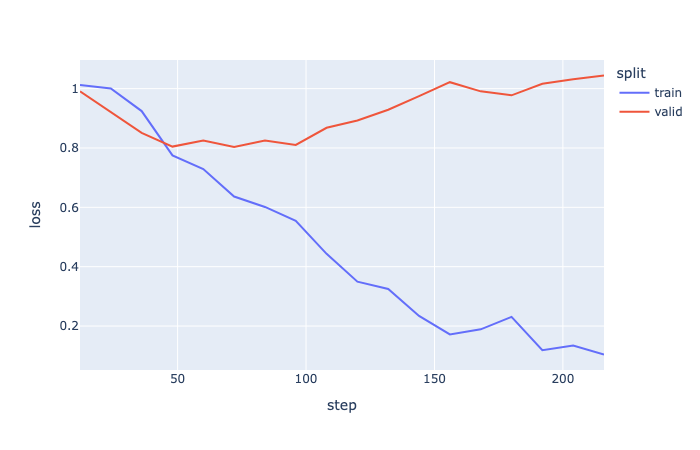
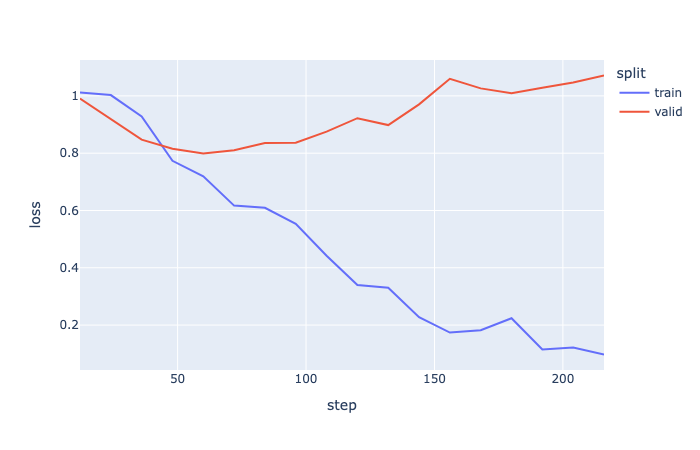
Built site for gh-pages

diff --git a/index.html b/index.html
@@ -245,7 +245,7 @@ window.Quarto = {
     <div class="quarto-title-meta-heading">Authors</div>
     <div class="quarto-title-meta-contents">
              <p>A. Morin <a href="mailto:axel.morin@polytechnique.edu" class="quarto-title-author-email"><i class="bi bi-envelope"></i></a> </p>
-             <p>Alban Derepas <a href="mailto:alban.derepas@ensae.fr" class="quarto-title-author-email"><i class="bi bi-envelope"></i></a> </p>
+             <p>Alban Derepas <a href="mailto:alban.derepas@polytechnique.edu" class="quarto-title-author-email"><i class="bi bi-envelope"></i></a> </p>
           </div>
   </div>
     
@@ -260,10 +260,10 @@ window.Quarto = {
 
 <section id="introduction" class="level1">
 <h1>Introduction</h1>
-<p>Social scientists working with large corpora of documents (tweets, abstracts, newspaper articles, videos…) often need to annotate each item with one or more labels. Common strategies include hiring interns, outsourcing to a company such as MTurk, or automating the task. Since the development of LLMs, it has become common practice to use them as annotators in social science contexts (Gilardi et al., 2023; Bonikowski et al, 2022). One such study annotated 4.5 million tweets addressed to French members of parliament with the labels “attack”, “critique” or “support” to describe the conditions of hate speech towards them on Twitter. In Machine Learning jargon, this is a “classification task”.</p>
-<p>This tutorial is part of a series on using LLMs as annotators. A companion <a href="https://www.css.cnrs.fr/classification-with-generative-llms-and-api-calls/">tutorial</a> covers the generative AI (genAI) approach: writing a prompt and parsing the label out of the model’s response. Here, we cover the encoder approach instead (an encoder is an LLM that does not generate text<a href="#fn1" class="footnote-ref" id="fnref1" role="doc-noteref"><sup>1</sup></a>), fine-tuned on an annotated sample the way a human expert would learn the task<a href="#fn2" class="footnote-ref" id="fnref2" role="doc-noteref"><sup>2</sup></a>. This gives you more control over the model and its performance, at the cost of more NLP knowledge and coding skill.</p>
+<p>Social scientists working with large corpora of documents (tweets, abstracts, newspaper articles, videos…) often need to annotate each item with one or more labels to conduct analysis, such as the evolution of topics or modelisation. Common strategies include hiring interns, outsourcing to a company such as MTurk, or automating the task with various strategies. Since the development of LLMs, it has become common practice to use them as annotators in social science contexts (Gilardi et al., 2023; Bonikowski et al, 2022). For instance, such study annotated 4.5 million tweets addressed to French members of parliament with the labels “attack”, “critique” or “support” to describe the conditions of hate speech towards them on Twitter. In Machine Learning jargon, this is a “classification task”.</p>
+<p>This tutorial is part of a series on using LLMs as annotators. A companion <a href="https://www.css.cnrs.fr/classification-with-generative-llms-and-api-calls/">tutorial</a> covers the generative AI (genAI) approach: writing a prompt and parsing the label out of the model’s response. Here, we cover another approach using specific models called encoders (an LLM that does not generate text<a href="#fn1" class="footnote-ref" id="fnref1" role="doc-noteref"><sup>1</sup></a>), fine-tuned on an annotated sample the way a human expert would learn the task<a href="#fn2" class="footnote-ref" id="fnref2" role="doc-noteref"><sup>2</sup></a>. This gives you more control over the model and its performance, at the cost of (a bit) more NLP knowledge and coding skill.</p>
 <p><strong>Why not just use ChatGPT?</strong> Generative models (GPT, Llama, Claude) are prompted: you describe your categories and hope the model interprets them as you would, every time. An encoder (BERT and its relatives) produces no text but an <strong>embedding</strong>, a numerical representation of a text’s meaning<a href="#fn3" class="footnote-ref" id="fnref3" role="doc-noteref"><sup>3</sup></a>, and is <strong>fine-tuned</strong> on texts you label yourself. You thus control the whole pipeline: the model can only assign the categories you defined, learned from your annotations and nothing else. A generative model brings everything it learned elsewhere into each decision, and may read into a text things that are not in it. Its errors are then not random but biased: Ashwin et al.&nbsp;(2025) found that a generative LLM’s coding errors on interviews with Rohingya refugees were correlated with respondents’ characteristics, whereas a model fine-tuned on human-coded transcripts showed less bias.</p>
-<p>Encoders also keep your data <strong>confidential</strong>: they are light enough to run on your own machine or a trusted server<a href="#fn4" class="footnote-ref" id="fnref4" role="doc-noteref"><sup>4</sup></a>, so sensitive corpora never go through an external API. And they keep your results <strong>reproducible</strong>: closed generative models can change after an update, while you own the encoder and its fine-tuning data. Finally, they are cheaper to run on large corpora, and a few hundred annotated texts are often enough (Laurer et al., 2024; Bucher &amp; Martini, 2024). The price is the annotation effort, more code, and a model that performs a single task.</p>
+<p>Using small models helps to keep your data <strong>confidential</strong>: encoders are light enough to run on your own machine or a trusted server<a href="#fn4" class="footnote-ref" id="fnref4" role="doc-noteref"><sup>4</sup></a>, so sensitive corpora never go through an external API. And they keep your results <strong>reproducible</strong>: closed generative models can change after an update, while you own the encoder and its fine-tuning data. Finally, they are cheaper to run on large corpora, and a few hundred annotated texts are often enough (Laurer et al., 2024; Bucher &amp; Martini, 2024). The price is the annotation effort, more code, and a model that performs a single task. But even this cost has its avantage : you learn a lot during the annotation process.</p>
 <p>This tutorial fine-tunes an <strong>encoder model</strong>: we load and format a dataset, load the model and set its hyperparameters, launch fine-tuning, assess performance, and tune hyperparameters to improve it. We close with advice on incorporating the results into a social science project, including hardware tips along the way.</p>
 <section id="sec-objectives" class="level2">
 <h2 class="anchored" data-anchor-id="sec-objectives">Objectives and materials</h2>
@@ -277,7 +277,7 @@ window.Quarto = {
 </ul>
 <p>It will <strong>not</strong> cover:</p>
 <ul>
-<li>Python syntax: we assume you already know the language. See <a href="https://pythonds.linogaliana.fr/">Lino’s course</a> if you don’t.</li>
+<li>Python syntax: we assume you already know the language. See <a href="https://pythonds.linogaliana.fr/">Lino Galiana’s course</a> if you don’t.</li>
 <li>Supervised learning in depth: we assume you have an annotated dataset to fine-tune on, and only recall the essentials of the framework (training a classifier, splitting annotations into train, valid and test sets) and its standard metrics (precision, recall, accuracy, F1 score) in the refresher below. See the <a href="https://scikit-learn.org/stable/supervised_learning.html">scikit-learn user guide</a> to go further, and Pustejovsky &amp; Stubbs (2012) or Krippendorff (2018) for annotation.</li>
 <li>The fundamentals of NLP and linguistics, beyond what’s necessary here. See <a href="https://web.stanford.edu/~jurafsky/slp3/">Jurafsky</a>.</li>
 <li>How to turn your research question into an annotation protocol: we assume you can design and motivate that yourself.</li>
@@ -337,10 +337,11 @@ Figure&nbsp;1: Similarity between embeddings: “apple” and “pear” are clo
 </figcaption>
 </figure>
 </div>
-<p>Models don’t read words but <strong>tokens</strong>: words or pieces of words from the model’s vocabulary, into which texts are split before use. Every encoder has a <strong>context window</strong>, the maximum number of tokens it processes at once. Anything beyond is ignored, so long texts may have to be split into sentences or paragraphs (older models read 128 to 512 tokens).</p>
+<p>Models don’t read words but <strong>tokens</strong>: words or pieces of words from the model’s vocabulary, into which texts are split before use. Every encoder has a <strong>context window</strong>, the maximum number of tokens it processes at once. Anything beyond is ignored, so long texts may have to be split into sentences or paragraphs (older models read 128 to 512 tokens). It is important for encoders since their context windows are smaller than generative models.</p>
 <p>A <strong>pretrained</strong> model has already learned how a language works, by reading very large amounts of general text such as Wikipedia, books or web pages. This step requires computing power and data out of reach of most research teams, so it is done by companies and research labs, who often share the resulting models publicly; this tutorial downloads its model from Hugging Face, the main platform for doing so. <strong>Fine-tuning</strong> adjusts its parameters slightly with your annotations, to turn it into a classifier for your own labels. It is quick: a few minutes, at most a few dozen on limited hardware.</p>
+<p>An encoder only produces embeddings, so going from an embedding to a category takes one more step: we add a <strong>classification layer</strong> on top of the encoder. This single linear layer takes a text’s embedding as input and produces one score per label, and the label with the highest score is the prediction. It starts with random parameters and learns your categories during fine-tuning, while the encoder’s own parameters are adjusted slightly.</p>
 <p>Fine-tuning proceeds by small successive corrections: the model reads a <strong>batch</strong> of annotated texts, compares its predictions with your annotations, and adjusts its parameters slightly to reduce the gap between the two, called the <strong>loss</strong>. It then moves to the next batch, and repeats until it has gone through the whole train set: one <strong>epoch</strong>. The settings that control this loop (how many texts per batch, how large each correction is, how many epochs) are called hyperparameters; we introduce them when diagnosing training problems (<a href="#sec-hyperparameters-tuning" class="quarto-xref">Section&nbsp;4.1</a>).</p>
-<p>To check that the model learned your categories rather than memorised your examples, annotations are split into three sets: the model learns from the <strong>train</strong> set, you compare settings on the <strong>valid</strong> set, and the <strong>test</strong> set is kept aside for one final, unbiased score.</p>
+<p>To check that the model learned your categories rather than memorised your examples, annotations are split into three sets: the <strong>train</strong> set is used to optimise the weights by reducing the loss, the <strong>valid</strong> set is used during fine-tuning to measure the loss on texts that never update the weights, which shows whether the model is really learning and lets you compare settings, and the <strong>test</strong> set is kept aside for one final, unbiased score.</p>
 <div class="callout callout-style-default callout-note callout-titled" title="Learn more about neural networks, Transformers and encoders">
 <div class="callout-header d-flex align-content-center collapsed" data-bs-toggle="collapse" data-bs-target=".callout-2-contents" aria-controls="callout-2" aria-expanded="false" aria-label="Toggle callout">
 <div class="callout-icon-container">
@@ -366,7 +367,7 @@ Figure&nbsp;1: Similarity between embeddings: “apple” and “pear” are clo
 </div>
 <section id="install-environment" class="level2">
 <h2 class="anchored" data-anchor-id="install-environment">Install environment</h2>
-<p>This tutorial uses Python 3.12:</p>
+<p>This tutorial uses Python 3.14:</p>
 <div class="code-copy-outer-scaffold"><div class="sourceCode" id="cb1"><pre class="sourceCode bash code-with-copy"><code class="sourceCode bash"><span id="cb1-1"><a href="#cb1-1" aria-hidden="true" tabindex="-1"></a><span class="ex">pip</span> install <span class="at">-qU</span> pandas <span class="st">"transformers==4.52.4"</span> datasets ipykernel matplotlib torch <span class="st">"accelerate&gt;=0.26.0"</span> scikit-learn plotly <span class="st">"nbformat&gt;=4.2.0"</span></span></code></pre></div><button title="Copy to Clipboard" class="code-copy-button"><i class="bi"></i></button></div>
 <p><a href="https://pytorch.org/">PyTorch</a> and <a href="https://huggingface.co/docs/transformers/index">Transformers</a> are well documented, with large communities that have already debugged most version-compatibility issues you’ll hit. We recommend a virtual environment manager such as conda<a href="#fn6" class="footnote-ref" id="fnref6" role="doc-noteref"><sup>6</sup></a>, and keeping track of your library versions to save debugging time later.</p>
 </section>
@@ -387,7 +388,7 @@ Figure&nbsp;1: Similarity between embeddings: “apple” and “pear” are clo
 <p></p><figure class="figure"><p></p>
 <div>
 <pre class="mermaid mermaid-js">flowchart LR
-  A[Annotated sample] --&gt; B[Split into&lt;br/&gt;train / valid / test]
+  A[Split into&lt;br/&gt;train / valid / test] --&gt; B["Annotated sample (first train, then valid)"]
   B --&gt; C[Fine-tune&lt;br/&gt;on train]
   C --&gt; D[Evaluate on valid]
   D -- not good enough --&gt; E[Adjust settings]
@@ -948,104 +949,104 @@ Note&nbsp;1: Model description
 <tr class="even">
 <td style="text-align: right;">0.539</td>
 <td style="text-align: right;">24</td>
-<td style="text-align: right;">1.0008</td>
-<td style="text-align: right;">0.9204</td>
+<td style="text-align: right;">1.0029</td>
+<td style="text-align: right;">0.9193</td>
 </tr>
 <tr class="odd">
 <td style="text-align: right;">0.809</td>
 <td style="text-align: right;">36</td>
-<td style="text-align: right;">0.9244</td>
-<td style="text-align: right;">0.8510</td>
+<td style="text-align: right;">0.9282</td>
+<td style="text-align: right;">0.8474</td>
 </tr>
 <tr class="even">
 <td style="text-align: right;">1.067</td>
 <td style="text-align: right;">48</td>
-<td style="text-align: right;">0.7749</td>
-<td style="text-align: right;">0.8047</td>
+<td style="text-align: right;">0.7735</td>
+<td style="text-align: right;">0.8152</td>
 </tr>
 <tr class="odd">
 <td style="text-align: right;">1.337</td>
 <td style="text-align: right;">60</td>
-<td style="text-align: right;">0.7288</td>
-<td style="text-align: right;">0.8248</td>
+<td style="text-align: right;">0.7193</td>
+<td style="text-align: right;">0.7990</td>
 </tr>
 <tr class="even">
 <td style="text-align: right;">1.607</td>
 <td style="text-align: right;">72</td>
-<td style="text-align: right;">0.6364</td>
-<td style="text-align: right;">0.8035</td>
+<td style="text-align: right;">0.6170</td>
+<td style="text-align: right;">0.8106</td>
 </tr>
 <tr class="odd">
 <td style="text-align: right;">1.876</td>
 <td style="text-align: right;">84</td>
-<td style="text-align: right;">0.6013</td>
-<td style="text-align: right;">0.8248</td>
+<td style="text-align: right;">0.6093</td>
+<td style="text-align: right;">0.8353</td>
 </tr>
 <tr class="even">
 <td style="text-align: right;">2.135</td>
 <td style="text-align: right;">96</td>
-<td style="text-align: right;">0.5545</td>
-<td style="text-align: right;">0.8105</td>
+<td style="text-align: right;">0.5534</td>
+<td style="text-align: right;">0.8364</td>
 </tr>
 <tr class="odd">
 <td style="text-align: right;">2.404</td>
 <td style="text-align: right;">108</td>
-<td style="text-align: right;">0.4433</td>
-<td style="text-align: right;">0.8682</td>
+<td style="text-align: right;">0.4421</td>
+<td style="text-align: right;">0.8752</td>
 </tr>
 <tr class="even">
 <td style="text-align: right;">2.674</td>
 <td style="text-align: right;">120</td>
-<td style="text-align: right;">0.3497</td>
-<td style="text-align: right;">0.8927</td>
+<td style="text-align: right;">0.3402</td>
+<td style="text-align: right;">0.9222</td>
 </tr>
 <tr class="odd">
 <td style="text-align: right;">2.944</td>
 <td style="text-align: right;">132</td>
-<td style="text-align: right;">0.3249</td>
-<td style="text-align: right;">0.9290</td>
+<td style="text-align: right;">0.3306</td>
+<td style="text-align: right;">0.8981</td>
 </tr>
 <tr class="even">
 <td style="text-align: right;">3.202</td>
 <td style="text-align: right;">144</td>
-<td style="text-align: right;">0.2342</td>
-<td style="text-align: right;">0.9748</td>
+<td style="text-align: right;">0.2273</td>
+<td style="text-align: right;">0.9704</td>
 </tr>
 <tr class="odd">
 <td style="text-align: right;">3.472</td>
 <td style="text-align: right;">156</td>
-<td style="text-align: right;">0.1716</td>
-<td style="text-align: right;">1.0218</td>
+<td style="text-align: right;">0.1739</td>
+<td style="text-align: right;">1.0595</td>
 </tr>
 <tr class="even">
 <td style="text-align: right;">3.742</td>
 <td style="text-align: right;">168</td>
-<td style="text-align: right;">0.1890</td>
-<td style="text-align: right;">0.9909</td>
+<td style="text-align: right;">0.1823</td>
+<td style="text-align: right;">1.0262</td>
 </tr>
 <tr class="odd">
 <td style="text-align: right;">4.000</td>
 <td style="text-align: right;">180</td>
-<td style="text-align: right;">0.2307</td>
-<td style="text-align: right;">0.9774</td>
+<td style="text-align: right;">0.2239</td>
+<td style="text-align: right;">1.0096</td>
 </tr>
 <tr class="even">
 <td style="text-align: right;">4.270</td>
 <td style="text-align: right;">192</td>
-<td style="text-align: right;">0.1184</td>
-<td style="text-align: right;">1.0162</td>
+<td style="text-align: right;">0.1150</td>
+<td style="text-align: right;">1.0282</td>
 </tr>
 <tr class="odd">
 <td style="text-align: right;">4.539</td>
 <td style="text-align: right;">204</td>
-<td style="text-align: right;">0.1343</td>
-<td style="text-align: right;">1.0317</td>
+<td style="text-align: right;">0.1214</td>
+<td style="text-align: right;">1.0464</td>
 </tr>
 <tr class="even">
 <td style="text-align: right;">4.809</td>
 <td style="text-align: right;">216</td>
-<td style="text-align: right;">0.1041</td>
-<td style="text-align: right;">1.0443</td>
+<td style="text-align: right;">0.0973</td>
+<td style="text-align: right;">1.0712</td>
 </tr>
 </tbody>
 </table>
@@ -1058,14 +1059,15 @@ Note&nbsp;1: Model description
 <li><code>trainer_state.json</code>: metadata up to that checkpoint.</li>
 <li><code>training_args.bin</code>: a copy of the training arguments.</li>
 </ul>
-<p><code>trainer.state.best_model_checkpoint</code> holds the path to the best one, where validation loss reaches its minimum: here, checkpoint 72 (<code>'./models/training/checkpoint-72'</code>), with a validation loss of 0.80. Reload a checkpoint the same way as the original model:</p>
+<p><code>trainer.state.best_model_checkpoint</code> holds the path to the best one, where validation loss reaches its minimum: here, checkpoint 60 (<code>'./models/training/checkpoint-60'</code>), with a validation loss of 0.80. Reload a checkpoint the same way as the original model:</p>
 <div class="code-copy-outer-scaffold"><div class="sourceCode" id="cb27"><pre class="sourceCode python code-with-copy"><code class="sourceCode python"><span id="cb27-1"><a href="#cb27-1" aria-hidden="true" tabindex="-1"></a>reload_model <span class="op">=</span> AutoModelForSequenceClassification.from_pretrained(</span>
 <span id="cb27-2"><a href="#cb27-2" aria-hidden="true" tabindex="-1"></a>    trainer.state.best_model_checkpoint)</span></code></pre></div><button title="Copy to Clipboard" class="code-copy-button"><i class="bi"></i></button></div>
 </section>
 </section>
 <section id="sec-evaluation" class="level2 page-columns page-full">
 <h2 class="anchored" data-anchor-id="sec-evaluation">Use model for inference and evaluate performance</h2>
-<p>We predict labels on the valid set (<a href="#sec-preprocess" class="quarto-xref">Section&nbsp;3.1</a>), then compare against the gold annotations using standard metrics: accuracy, precision, recall, F1.</p>
+<p>Once you have a new fine-tuned model, you can use it on elements to predict the label. But we also need to verify that those predictions are correct.</p>
+<p>To do so, we predict labels on the valid set (<a href="#sec-preprocess" class="quarto-xref">Section&nbsp;3.1</a>), then compare against the gold annotations using standard metrics: accuracy, precision, recall, F1. We use a dedicated valid set to be able to compare different versions of a model, and different models, on the same standard.</p>
 <div class="columns page-columns page-full">
 <div class="column-body">
 <div class="code-copy-outer-scaffold"><div class="sourceCode" id="cb28"><pre class="sourceCode python code-with-copy"><code class="sourceCode python"><span id="cb28-1"><a href="#cb28-1" aria-hidden="true" tabindex="-1"></a><span class="im">import</span> numpy <span class="im">as</span> np</span>
@@ -1116,9 +1118,9 @@ Note
 <span id="cb29-6"><a href="#cb29-6" aria-hidden="true" tabindex="-1"></a>))</span></code></pre></div><button title="Copy to Clipboard" class="code-copy-button"><i class="bi"></i></button></div>
 <div class="code-copy-outer-scaffold"><div class="sourceCode" id="cb30"><pre class="sourceCode txt code-with-copy"><code class="sourceCode default"><span id="cb30-1"><a href="#cb30-1" aria-hidden="true" tabindex="-1"></a>              precision    recall  f1-score   support</span>
 <span id="cb30-2"><a href="#cb30-2" aria-hidden="true" tabindex="-1"></a></span>
-<span id="cb30-3"><a href="#cb30-3" aria-hidden="true" tabindex="-1"></a>      agrees       0.67      0.73      0.70       116</span>
+<span id="cb30-3"><a href="#cb30-3" aria-hidden="true" tabindex="-1"></a>      agrees       0.71      0.62      0.66       116</span>
 <span id="cb30-4"><a href="#cb30-4" aria-hidden="true" tabindex="-1"></a>   disagrees       0.64      0.48      0.55        61</span>
-<span id="cb30-5"><a href="#cb30-5" aria-hidden="true" tabindex="-1"></a>     neutral       0.69      0.73      0.71       128</span>
+<span id="cb30-5"><a href="#cb30-5" aria-hidden="true" tabindex="-1"></a>     neutral       0.66      0.82      0.73       128</span>
 <span id="cb30-6"><a href="#cb30-6" aria-hidden="true" tabindex="-1"></a></span>
 <span id="cb30-7"><a href="#cb30-7" aria-hidden="true" tabindex="-1"></a>    accuracy                           0.68       305</span>
 <span id="cb30-8"><a href="#cb30-8" aria-hidden="true" tabindex="-1"></a>   macro avg       0.67      0.64      0.65       305</span>
@@ -1165,7 +1167,13 @@ Note
 <h1>Training pipeline: advanced practices</h1>
 <section id="sec-hyperparameters-tuning" class="level2">
 <h2 class="anchored" data-anchor-id="sec-hyperparameters-tuning">Diagnose and fix training problems</h2>
-<p>Checkpoints from <a href="#sec-essentials" class="quarto-xref">Section&nbsp;3</a> include the learning curve: the loss (the gap between predicted and gold labels) tracked on the train and valid sets as training progresses. Retrieve it from the trainer<a href="#fn14" class="footnote-ref" id="fnref14" role="doc-noteref"><sup>14</sup></a> and plot it:</p>
+<p>Checkpoints from <a href="#sec-essentials" class="quarto-xref">Section&nbsp;3</a> include the learning curve, which tracks the <strong>loss</strong> as fine-tuning progresses. The loss measures the gap between the model’s predictions and your annotations: the lower, the better. As a reference point, a model guessing at random between our 3 labels gets a loss of about 1.1, close to where our curves start.</p>
+<p>The curve shows the loss on two sets of texts (<a href="#sec-preprocess" class="quarto-xref">Section&nbsp;3.1</a>), which play different roles during fine-tuning:</p>
+<ul>
+<li>The <strong>train set</strong> is used to optimise the weights: each correction aims to reduce the loss on these texts, so the train loss is expected to keep falling.</li>
+<li>The <strong>valid set</strong> is also used during fine-tuning, but for inference only: at regular intervals (here every 12 steps) the model predicts the labels of these texts, and its weights are never updated from them. The valid loss therefore shows whether the model is actually learning, rather than memorising the train set, and when to stop training. Once the valid loss stops falling, more training no longer helps.</li>
+</ul>
+<p>Retrieve both from the trainer<a href="#fn14" class="footnote-ref" id="fnref14" role="doc-noteref"><sup>14</sup></a> and plot them:</p>
 <div class="code-copy-outer-scaffold"><div class="sourceCode" id="cb32"><pre class="sourceCode python code-with-copy"><code class="sourceCode python"><span id="cb32-1"><a href="#cb32-1" aria-hidden="true" tabindex="-1"></a><span class="im">import</span> plotly.express <span class="im">as</span> px</span>
 <span id="cb32-2"><a href="#cb32-2" aria-hidden="true" tabindex="-1"></a></span>
 <span id="cb32-3"><a href="#cb32-3" aria-hidden="true" tabindex="-1"></a>loss <span class="op">=</span> []</span>

diff --git a/appendices.html b/appendices.html
@@ -387,7 +387,7 @@ window.Quarto = {
 <tbody>
 <tr class="odd">
 <td>agrees</td>
-<td>0.70</td>
+<td>0.66</td>
 <td>116</td>
 </tr>
 <tr class="even">
@@ -397,14 +397,14 @@ window.Quarto = {
 </tr>
 <tr class="odd">
 <td>neutral</td>
-<td>0.71</td>
+<td>0.73</td>
 <td>128</td>
 </tr>
 </tbody>
 </table>
 <ul>
-<li>The <strong>macro</strong> average gives each label the same weight: <span class="math inline">\((0.70 + 0.55 + 0.71) / 3 \approx 0.65\)</span>.</li>
-<li>The <strong>weighted</strong> average weights each label by its number of texts: <span class="math inline">\((0.70 \times 116 + 0.55 \times 61 + 0.71 \times 128) / 305 \approx 0.67\)</span>.</li>
+<li>The <strong>macro</strong> average gives each label the same weight: <span class="math inline">\((0.66 + 0.55 + 0.73) / 3 \approx 0.65\)</span>.</li>
+<li>The <strong>weighted</strong> average weights each label by its number of texts: <span class="math inline">\((0.66 \times 116 + 0.55 \times 61 + 0.73 \times 128) / 305 \approx 0.67\)</span>.</li>
 <li>The <strong>micro</strong> average pools all texts together before computing the score. When each text has exactly one label, micro F1 equals accuracy: 0.68.</li>
 </ul>
 <p>The weighted and micro averages are dominated by the frequent labels, so they partly hide the model’s weaker performance on “disagrees”. The macro average does not, which is why we recommend it.</p>
